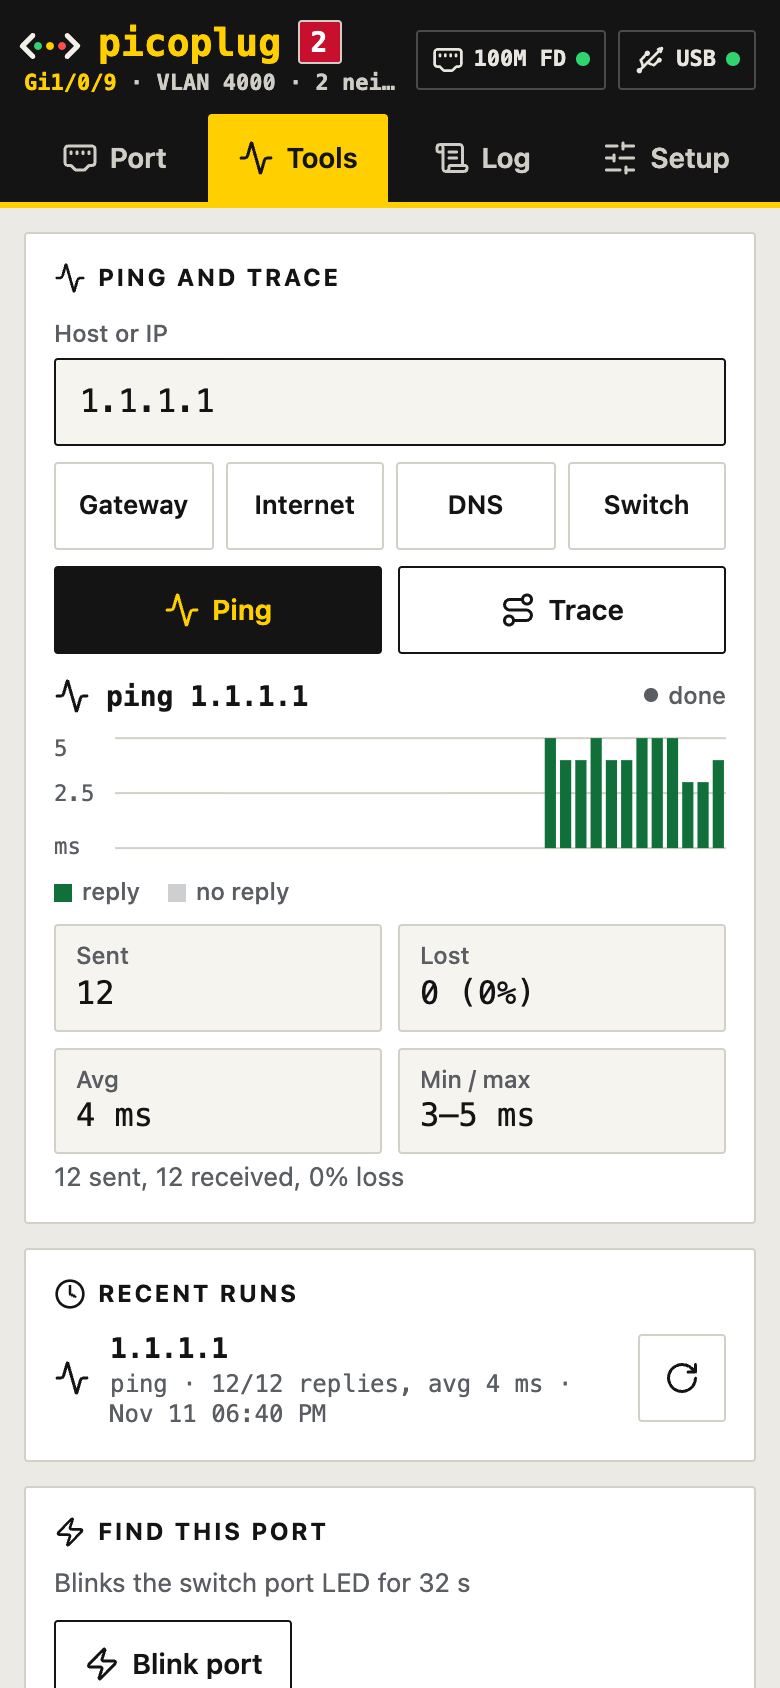
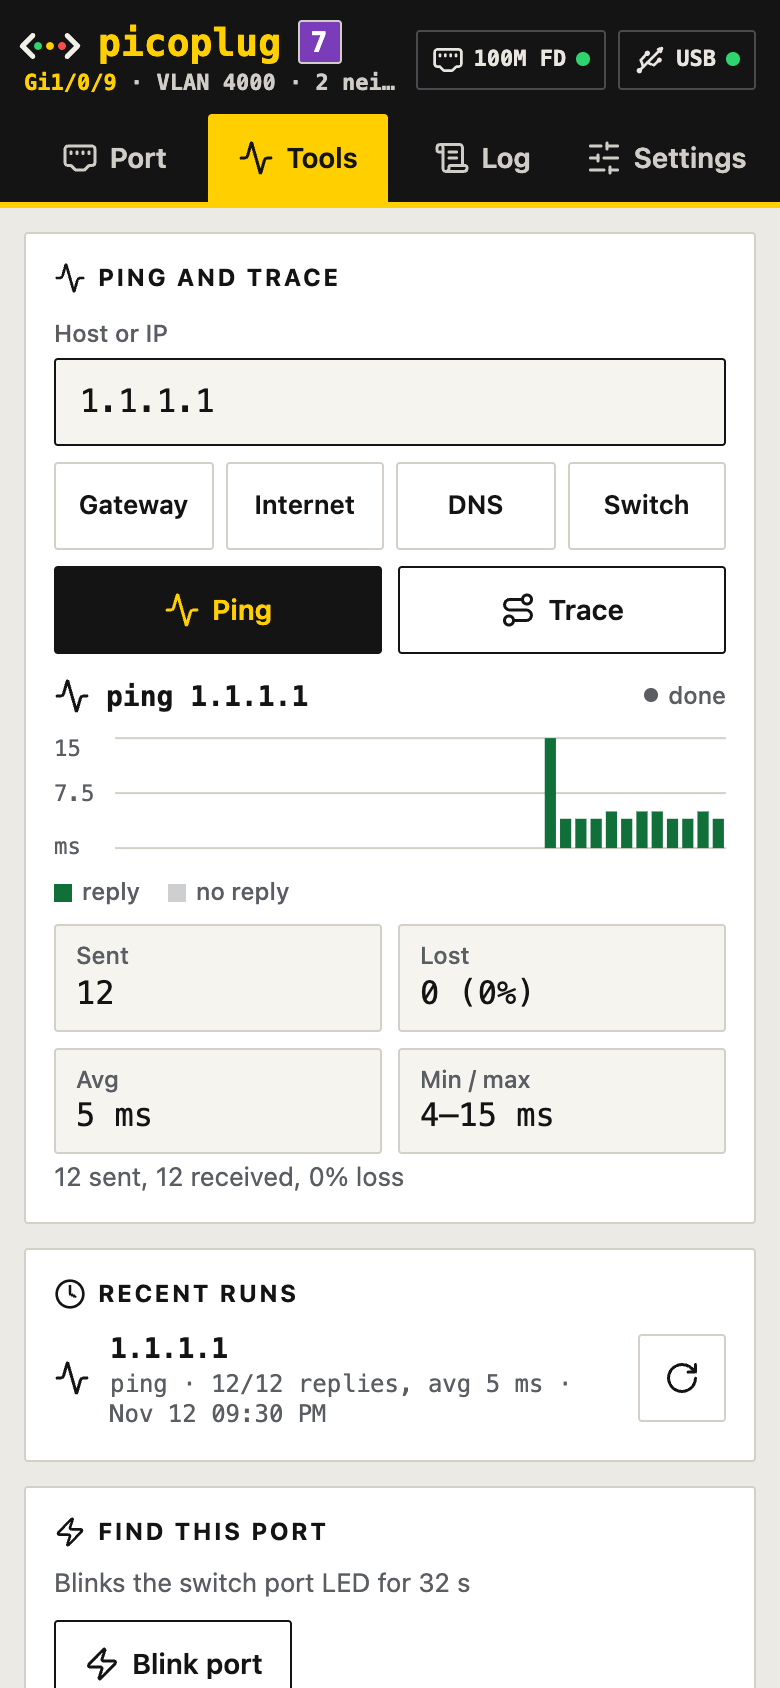
Rename the Setup tab to Settings
The tab holds things you come back and change (probe number, advertising,
appearance, port checks, the USB address, the Share link), and the endpoint
and firmware already call them settings.

- Tab label, route (#settings) and view file; #setup still opens it.
- test_page checks the label and the old link.
- PROTOCOL.md, the web README and the README alt text say Settings.
- README screenshots that show the tab bar retaken from a 0.4.0 board.

diff --git a/firmware/web/src/lib/app.svelte.js b/firmware/web/src/lib/app.svelte.js
@@ -6,7 +6,7 @@ import { shareParams } from './share.js';
 import { sel } from './ui.svelte.js';
 import { say } from './copy.svelte.js';
 
-export const VIEWS = ['port', 'tools', 'log', 'setup'];
+export const VIEWS = ['port', 'tools', 'log', 'settings'];
 export const app = $state({
   view: 'port', readonly: false,
   form: '', formDef: '',       // the Share link template and its default
@@ -18,6 +18,7 @@ export const app = $state({
 // tabs: hash routing, no reload; a fresh load always lands on Port
 export function route() {
   let v = (location.hash || '').slice(1);
+  if (v === 'setup') v = 'settings';   // the tab's old name, so old links still land there
   if (app.readonly || !VIEWS.includes(v)) v = 'port';
   app.view = v;
   window.scrollTo(0, 0);
@@ -40,7 +41,7 @@ export function targets() {
 }
 export function pickTarget(k) { const t = targets()[k]; app.qt = k; if (t) app.host = t; }
 
-// Share link: the Setup template with {name} fill-ins from the shown neighbor and the lease;
+// Share link: the Settings template with {name} fill-ins from the shown neighbor and the lease;
 // {share} is all of it as name=value pairs (share.js), already encoded
 export function formVals(s, cur, note) {
   const n = cur || {}, d = (s && s.port && s.port.dhcp) || {};
@@ -62,7 +63,7 @@ export function tool(q, okMsg) {
     .catch(() => { say('No reply'); });
 }
 
-// the Share link setting arrives with /settings, at start and whenever Setup saves
+// the Share link setting arrives with /settings, at start and whenever Settings saves
 export function formSet(j) {
   if (j.form_url === undefined) return;
   app.form = j.form_url; app.formDef = j.defaults ? j.defaults.form_url : '';

diff --git a/firmware/web/src/App.svelte b/firmware/web/src/App.svelte
@@ -16,7 +16,7 @@
   import PeerCard from './cards/PeerCard.svelte';
   import Tools from './views/Tools.svelte';
   import Log from './views/Log.svelte';
-  import Setup from './views/Setup.svelte';
+  import Settings from './views/Settings.svelte';
   import { conn, start, remote, scanPeers } from './lib/status.svelte.js';
   import { sel } from './lib/ui.svelte.js';
   import { toast } from './lib/copy.svelte.js';
@@ -121,7 +121,7 @@
   {:else if app.view === 'log'}
     <section><Log/></section>
   {:else}
-    <section><Setup/></section>
+    <section><Settings/></section>
   {/if}
 </main>
 <div class="toast" class:on={toast.on} role="status">{toast.msg}</div>

diff --git a/firmware/web/src/cards/NeighborCard.svelte b/firmware/web/src/cards/NeighborCard.svelte
@@ -21,8 +21,8 @@
 
   let open = $derived(detail || !!ui.nb);
   let stale = $derived(!detail && isStale(n));
-  // Share: the link from Setup (the share page by default; on the read-only page, which cannot
-  // read Setup, always the share page), filled from this card
+  // Share: the link from Settings (the share page by default; on the read-only page, which cannot
+  // read Settings, always the share page), filled from this card
   let shareOn = $derived(!detail && !n.picoplug);
   let shareTpl = $derived(!shareOn ? '' : app.readonly ? SHARE_PAGE : app.form);
   const shareLink = note => shareTpl ? formFill(shareTpl, formVals(conn.status, n, note)) : '';

diff --git a/firmware/web/src/lib/share.js b/firmware/web/src/lib/share.js
@@ -1,7 +1,7 @@
 // The Share link: what the Port tab shows, as name=value pairs. The default link puts them
 // after the '#' of the picoplug share page (clockclub.net/apps/picoplug/), where a browser keeps
 // them: the web server never sees the switch, port or addresses. The same pairs fill {share} in
-// any link set in Setup. Field list: docs/PROTOCOL.md, "Share link".
+// any link set in Settings. Field list: docs/PROTOCOL.md, "Share link".
 import { stripKind, portName, isP } from './format.js';
 
 export const SHARE_PAGE = 'https://clockclub.net/apps/picoplug/#{share}';

diff --git a/firmware/web/src/Header.svelte b/firmware/web/src/Header.svelte
@@ -6,7 +6,7 @@
   import { portName, isStale, fmtDur } from './lib/format.js';
   import { app } from './lib/app.svelte.js';
   import { closeRemote } from './lib/status.svelte.js';
-  const TABS = [['port', 'port', 'Port'], ['tools', 'ping', 'Tools'], ['log', 'log', 'Log'], ['setup', 'sliders', 'Setup']];
+  const TABS = [['port', 'port', 'Port'], ['tools', 'ping', 'Tools'], ['log', 'log', 'Log'], ['settings', 'sliders', 'Settings']];
 
   let { s, cur, neighbors, offline, lastOk, fails, remote = null } = $props();
 

diff --git a/firmware/web/src/app.css b/firmware/web/src/app.css
@@ -1,4 +1,4 @@
-/* Field-instrument theme. Light default for sunlight, dark follows the OS unless Setup overrides it. */
+/* Field-instrument theme. Light default for sunlight, dark follows the OS unless Settings overrides it. */
 :root {
   --bg: #ebeae4;
   --card: #fff;

diff --git a/firmware/test/test_page.py b/firmware/test/test_page.py
@@ -193,7 +193,10 @@ def main():
         check(cdp.js("document.getElementById('t_host').value") == "192.168.109.1", "host defaults to the gateway")
         click_text(".qt button", "Internet")
         check(cdp.js("document.getElementById('t_host').value") == "1.1.1.1", "Internet quick target fills the host")
+        view("settings")
+        check(cdp.js("document.querySelector('nav.tabs a.on')?.textContent.trim()") == "Settings", "the last tab is called Settings")
         view("setup")
+        check(cdp.js("document.querySelector('nav.tabs a.on')?.textContent.trim()") == "Settings", "an old #setup link opens Settings")
         click_text(".seg button", "Dark")
         check(cdp.js("document.documentElement.dataset.theme") == "dark", "Dark sets data-theme on html")
         click_text(".seg button", "Auto")
@@ -346,7 +349,7 @@ def main():
             check(sw <= 375, f"case {i}: no horizontal overflow at 375 px (scrollWidth {sw})")
         cdp.call("Emulation.clearDeviceMetricsOverride")
 
-        # --- Share: a button on the Port tab opens a sheet; its link is the Setup template filled from the card
+        # --- Share: a button on the Port tab opens a sheet; its link is the Settings template filled from the card
         sharebtn = "document.querySelector('.card.nb button.share')"
         def sheet():
             """open the Share sheet, return its link, target and items, close it"""
@@ -369,14 +372,14 @@ def main():
         cdp.js("document.querySelector('dialog.sheet').close();1"); time.sleep(0.3)
         check(urllib.parse.parse_qs(href.partition("#")[2]).get("note") == ["under the stage, A12"], "the sheet's note rides along in the link: " + href)
         formcard = "[...document.querySelectorAll('.card')].find(c=>c.querySelector('#s_form'))"
-        view("setup", 0.8)
+        view("settings", 0.8)
         cdp.js("{const f=document.getElementById('s_form');f.value='https://nf.example.net/noc/?requestType=Switch&switchIp={switch_ip}&port={port}';f.dispatchEvent(new Event('input'))}"); time.sleep(0.3)
-        check("port=mgi6" in cdp.js(formcard + ".innerText"), "Setup previews the filled-in link")
+        check("port=mgi6" in cdp.js(formcard + ".innerText"), "Settings previews the filled-in link")
         cdp.js(formcard + ".querySelector('button.p').click()"); time.sleep(0.8)
         view("port", 2.5)
         href = sheet().get("href") or ""
         check(href.startswith("https://nf.example.net/noc/?requestType=Switch&switchIp=") and href.endswith("&port=mgi6"), "saved link drives the sheet: " + href)
-        view("setup", 0.8)
+        view("settings", 0.8)
         cdp.js("{const f=document.getElementById('s_form');f.value='';f.dispatchEvent(new Event('input'))}"); time.sleep(0.3)
         cdp.js(formcard + ".querySelector('button.p').click()"); time.sleep(0.8)
         view("port", 2.5)
@@ -407,8 +410,8 @@ def main():
         check(hstat() == "No switch · picoplug-3", "header does not name the picoplug as the switch port")
         check(not cdp.js("!!" + sharebtn), "no Share button for a picoplug neighbor")
         check(not any(e.get("sys_name") == "picoplug-3" for e in json.loads(cdp.js("localStorage.getItem('piccolldp.history.v1')") or "[]")), "picoplug neighbor kept out of the port log")
-        view("setup")
-        check("no CDP switch" in cdp.js("document.body.innerText"), "Setup says no CDP switch heard")
+        view("settings")
+        check("no CDP switch" in cdp.js("document.body.innerText"), "Settings says no CDP switch heard")
         view("port", 0.3)
 
         # --- case 13: fields checked against Wireshark/tcpdump: 802.3bt PoE, mgmt VLAN, protocols, EEE, location, MUD URL

diff --git a/firmware/test/web_mock.py b/firmware/test/web_mock.py
@@ -85,7 +85,7 @@ def main():
                 body = open(os.path.join(WEB, "manifest.json"), "rb").read()
                 ctype = "application/manifest+json"
             elif path == "/settings":
-                # just enough for the Setup tab: remembers the probe number and the form link
+                # just enough for the Settings tab: remembers the probe number and the form link
                 q = dict(kv.split("=", 1) for kv in query.split("&") if "=" in kv)
                 if "probe" in q:
                     a.probe = int(q["probe"]) if q["probe"] else None

diff --git a/README.md b/README.md
@@ -8,7 +8,7 @@ adapter and serves one web page at http://192.168.7.1/ (picoplug.local).
 <p>
 <picture><source media="(prefers-color-scheme: dark)" srcset="docs/img/port-dark.png"><img src="docs/img/port.png" alt="Port tab: the switch and port the tester is on, with PVID, voice VLAN and the network checks" width="260"></picture>
 <picture><source media="(prefers-color-scheme: dark)" srcset="docs/img/tools-dark.png"><img src="docs/img/tools.png" alt="Tools tab: ping with a round-trip plot" width="260"></picture>
-<picture><source media="(prefers-color-scheme: dark)" srcset="docs/img/setup-dark.png"><img src="docs/img/setup.png" alt="Setup tab" width="260"></picture>
+<picture><source media="(prefers-color-scheme: dark)" srcset="docs/img/setup-dark.png"><img src="docs/img/setup.png" alt="Settings tab: probe number, LLDP and CDP advertising, appearance and the device" width="260"></picture>
 </p>
 
 What the page answers:

diff --git a/docs/PROTOCOL.md b/docs/PROTOCOL.md
@@ -403,10 +403,10 @@ curl -s http://192.168.7.1/status.json | python3 -m json.tool
 
 The Switch card on the Port tab has a Share button. It opens a sheet with an optional note, and
 opens or copies a link made from the Port tab, or copies the card as text. The link comes from a URL template kept
-in flash (`form_url`, set in Setup's Share card); empty means no link, copy only. The page
+in flash (`form_url`, set in the Settings tab's Share card); empty means no link, copy only. The page
 replaces each `{name}` with the URL-encoded value from the neighbor shown on the Port tab and
 the lease. Unknown names are left as typed; a value the port does not have becomes empty. The
-read-only page on the port's own address cannot read Setup, so its link is always the default.
+read-only page on the port's own address cannot read Settings, so its link is always the default.
 
 | Fill-in | Value |
 | --- | --- |

diff --git a/firmware/web/README.md b/firmware/web/README.md
@@ -17,7 +17,7 @@ Layout:
 * `src/Header.svelte` - header band, link lights, tabs
 * `src/cards/` - one file per card: switch, Network, spanning tree, LAG,
   802.1X, IGMP/PIM, PTP, other probes, Listening, No link, Last port
-* `src/views/` - the Tools, Log and Setup tabs
+* `src/views/` - the Tools, Log and Settings tabs
 * `src/lib/` - polling (`status.svelte.js`), tab and settings state (`app.svelte.js`),
   ports visited and recent runs (`history.svelte.js`), clipboard, DHCP option decoding,
   formatting helpers, and small shared pieces (`Kv`, `Parts`/`Ln` for "a · b · c" value
